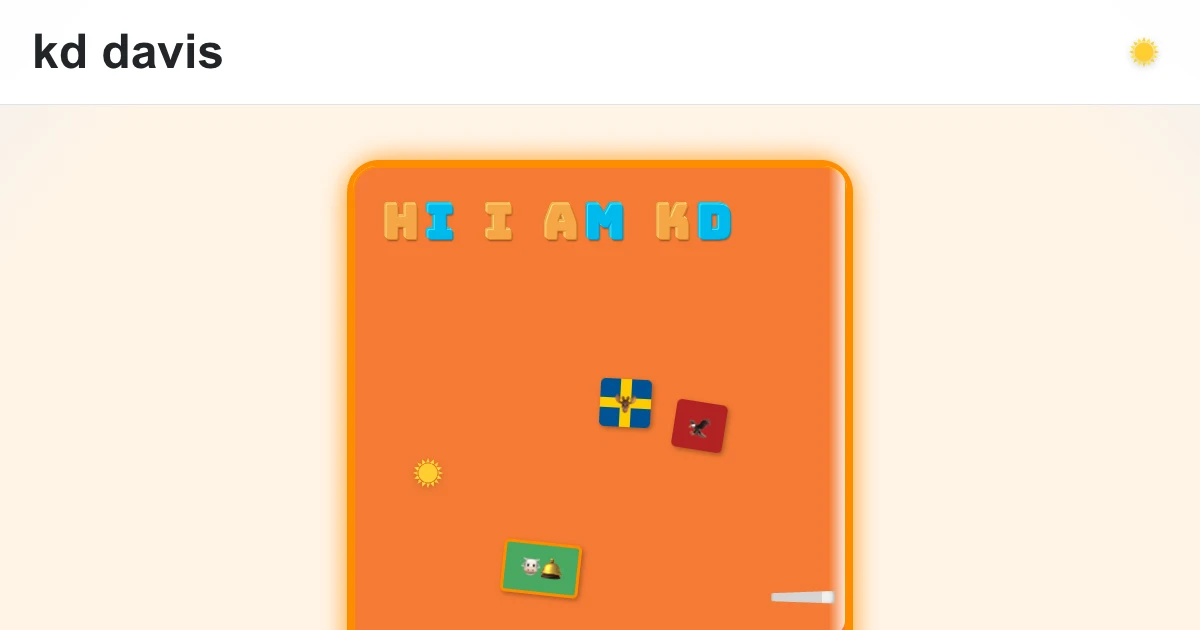
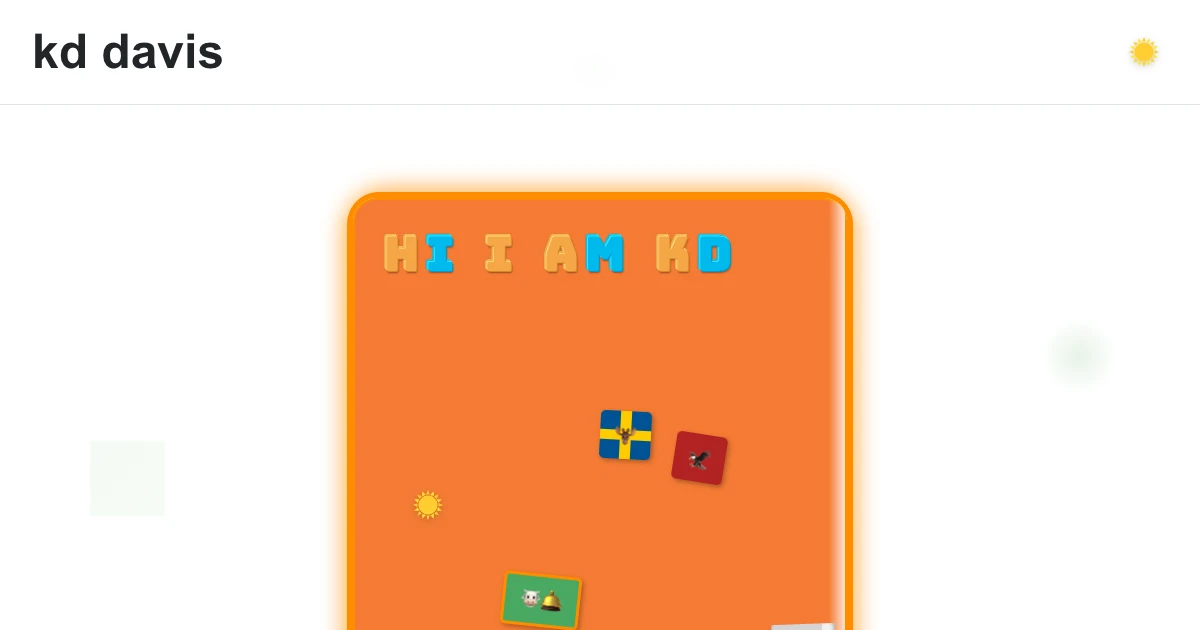
consider screenshots and visual regression testing

diff --git a/src/scripts/take-screenshots.js b/src/scripts/take-screenshots.js
@@ -70,6 +70,12 @@ async function takeScreenshots() {
     // Convert cropped screenshot to webp
     await sharp(croppedScreenshotBuffer).webp({ quality: 90 }).toFile(`public/${filename}.webp`);
 
+    // If this is the home screenshot, also copy it as og-image.webp
+    if (filename === 'home-screenshot') {
+      await sharp(croppedScreenshotBuffer).webp({ quality: 90 }).toFile('public/og-image.webp');
+      console.log('Updated og-image.webp with home screenshot');
+    }
+
     console.log(`Saved ${filename}.webp (both full and cropped)`);
   }
 

diff --git a/src/stories/ThemeProvider.tsx b/src/stories/ThemeProvider.tsx
@@ -13,7 +13,10 @@ interface ThemeProviderProps {
 }
 
 export function ThemeProvider({ children, initialTheme = 'light' }: ThemeProviderProps) {
-  const [theme, setTheme] = useState(initialTheme);
+  // Use deterministic theme for Storybook visual testing
+  const isStorybook =
+    typeof window !== 'undefined' && window.location?.hostname === 'localhost' && window.location?.port === '6006';
+  const [theme, setTheme] = useState(isStorybook ? 'light' : initialTheme);
 
   // Apply theme to document element
   React.useEffect(() => {

diff --git a/src/index.css b/src/index.css
@@ -117,6 +117,15 @@ body {
   overflow-x: hidden;
 }
 
+/* Deterministic background for Storybook visual testing */
+body:has(.sb-show-main) {
+  background: linear-gradient(135deg, rgba(34, 139, 34, 0.05), rgba(50, 205, 50, 0.05)) !important;
+}
+
+[data-theme='dark'] body:has(.sb-show-main) {
+  background: linear-gradient(135deg, rgba(34, 139, 34, 0.05), rgba(50, 205, 50, 0.05)) !important;
+}
+
 /* Ensure #root takes full height */
 #root {
   min-height: 100vh;
